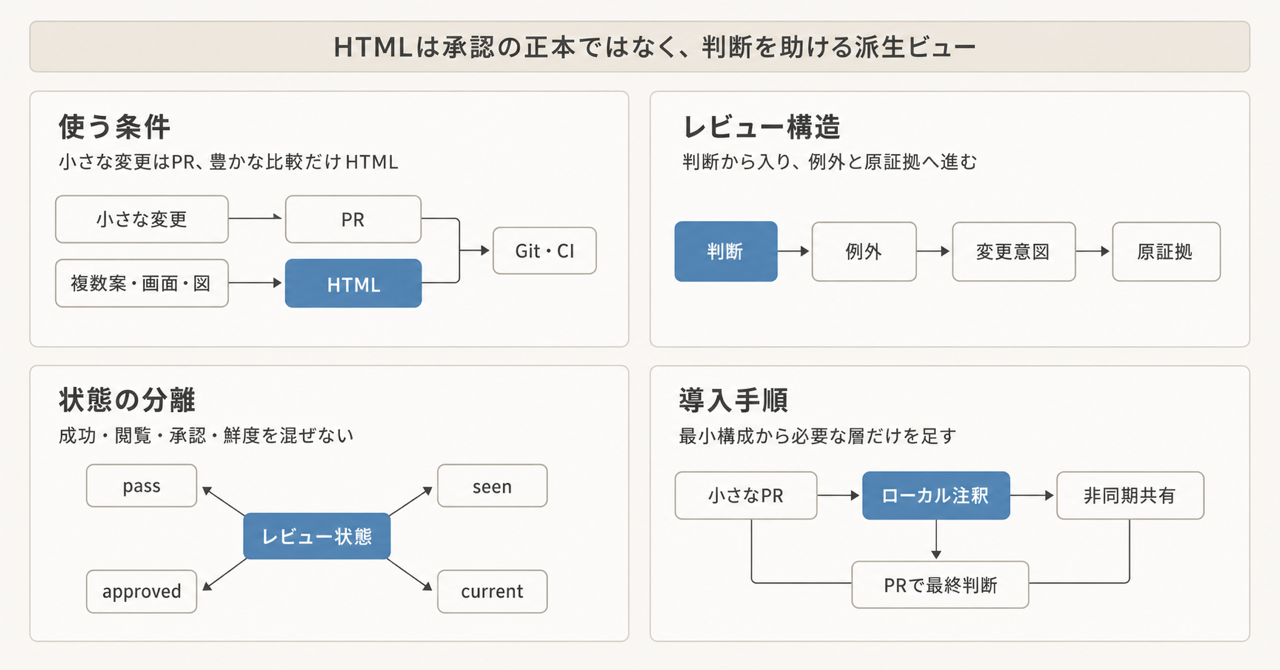
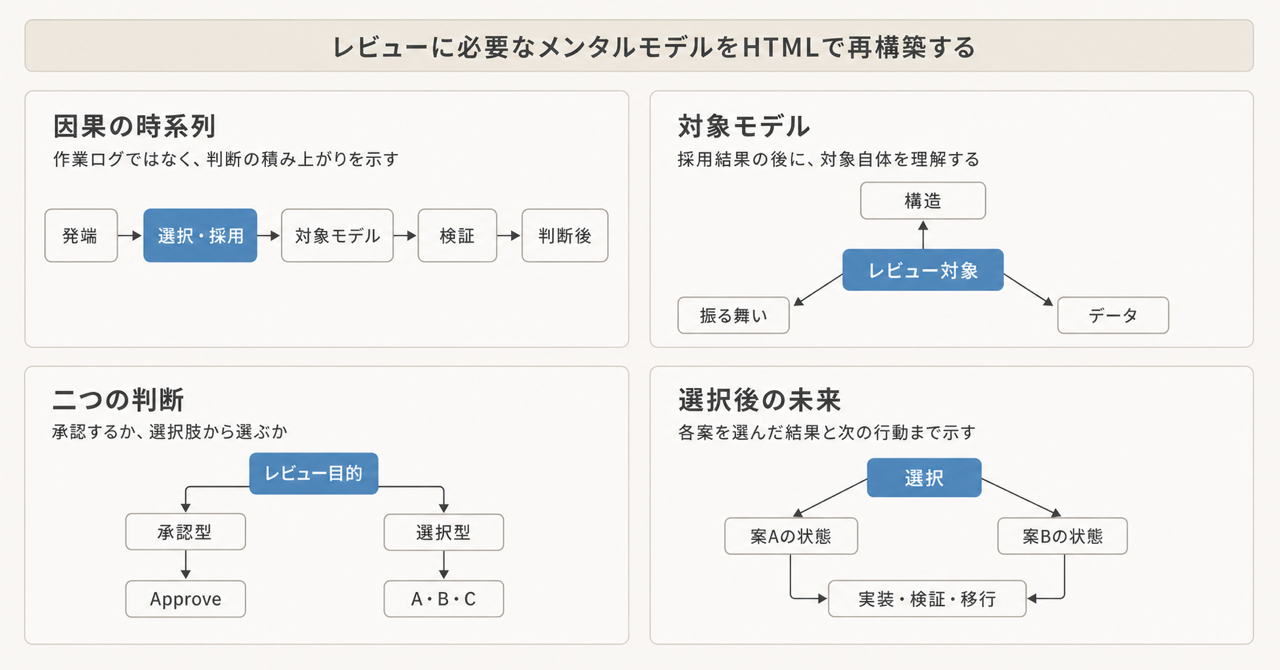
docs: expand human HTML review mental model

diff --git a/articles/coding-agent-human-html-review_20260807.md b/articles/coding-agent-human-html-review_20260807.md
@@ -6,14 +6,14 @@ topics: ["ClaudeCode", "CodeReview", "AIAgent", "OSS", "UX"]
 published: false
 ---
 
-コーディングエージェントに大きな調査や実装を任せると、成果物を作る時間より、人がその成果を理解して判断する時間の方が長くなることがあります。そこで使いたくなるのが、変更意図、diff、テスト結果、画面をまとめたHTMLです。
+コーディングエージェントに大きな調査や実装を任せると、成果物を作る時間より、人がその成果を理解して判断する時間の方が長くなることがあります。エージェントは背景を積み上げながら自律的に進みますが、reviewerはその過程を共有していません。そのため、前提知識がないまま、突然コードや最終結果の判断を求められます。
 
-ただし、MarkdownをきれいなHTMLへ変換するだけでは、レビューはそれほど楽になりません。減らしたいのは文字量ではなく、**探す、戻る、照合する、対象を言い直す、未確認箇所を覚える**といった作業だからです。
+そこで使いたくなるのが、変更意図、diff、テスト結果、画面をまとめたHTMLです。ただし、MarkdownをきれいなHTMLへ変換するだけでは、レビューはそれほど楽になりません。減らしたいのは文字量ではなく、**前提を組み立てる、対象の仕組みを把握する、探す、戻る、照合する、未確認箇所を覚える**といった作業だからです。
 
-この記事では、人の認知負荷を下げるHTMLレビューの設計原則と、2026年8月時点で利用できるツールを整理します。Claude Code Artifactsの不足を補うOSSも、どのペインをどう解消するのかという観点で比較します。
+この記事では、前提知識ゼロからレビューに必要なメンタルモデルを再構築するHTMLの設計原則と、2026年8月時点で利用できるツールを整理します。Claude Code Artifactsの不足を補うOSSも、どのペインをどう解消するのかという観点で比較します。
 
 :::message
-結論から言うと、既定値は小さなGitHub PR、CI、raw diffのままで十分です。HTMLは承認の正本ではなく、複数案、ユーザーフロー、図、画面状態など、行指向diffでは理解しにくい変更にだけ追加する派生ビューとして使います。
+結論から言うと、既定値は小さなGitHub PR、CI、raw diffのままで十分です。HTMLは承認の正本ではなく、前提知識ゼロから対象と判断材料を理解するための派生ビューです。複数案、ユーザーフロー、図、画面状態など、行指向diffでは理解しにくい変更にだけ追加します。
 :::
 
 ![記事の全体像](/images/coding-agent-human-html-review_20260807/overview.png)
@@ -21,47 +21,109 @@ published: false
 
 ## HTML化の前に、減らしたい負荷を分ける
 
-「レビューがつらい」を一つの問題として扱うと、ツール選びを誤ります。実際には、少なくとも次の5つに分けられます。
+「レビューがつらい」を一つの問題として扱うと、ツール選びを誤ります。実際には、少なくとも次の7つに分けられます。
 
 | 負荷 | レビュー中に起きること | UIへ移せるもの |
 |---|---|---|
+| 前提構築負荷 | 目的、制約、検討経緯を知らず、結果から背景を推測する | 発端から採用結果までの因果的な時系列 |
+| 対象理解負荷 | コードを読みながら構造、振る舞い、データ関係を頭内で組み立てる | 構造図、振る舞い図、データモデル図 |
 | 同定負荷 | 「左の3つ目」「この辺」と対象を言い直す | DOM、行、引用へのanchor |
 | 探索・再定位負荷 | 仕様、diff、テスト、画面を往復する | 索引、deep link、確認位置 |
 | 比較・統合負荷 | before/afterや複数ファイルを頭内で結ぶ | 同期比較、関心事ごとの束ね |
 | 状態保持負荷 | 見た箇所、未確認、差し戻し、古い判断を覚える | unseen、decision、staleの分離 |
 | 転記負荷 | コメントを再びプロンプトへまとめる | 構造化feedbackとagentへの返送 |
 
-HTMLの利点は、これらの状態を画面へ外在化できることです。一方で、変更が正しいか疑い、反証し、承認する思考まで省くべきではありません。
+HTMLの利点は、reviewerとエージェントの間にある文脈の非対称性を埋め、これらの状態を画面へ外在化できることです。一方で、変更が正しいか疑い、反証し、承認する思考まで省くべきではありません。
 
 「HTMLの方がMarkdownやPRより認知負荷が低い」と直接示したコードレビュー実験は、今回の調査では確認できませんでした。参考になるのは、変更理由と根拠を近づける、探索状態を外に出す、関心事ごとに分解するといった周辺研究です。つまり、効果を生むのはHTMLという媒体ではなく、**情報の配置とレビュー状態の設計**です。
 
-## レビュー画面は「判断→例外→証拠」の順にする
+## 時系列でメンタルモデルを再構築する
 
-エージェントの実行ログを先頭から並べても、レビュー画面にはなりません。人が最初に知りたいのは、何を作業したかより、何を判断すべきかです。
+前提知識のないreviewerには、結論だけでなく「なぜ現在の形になったのか」を組み立てる足場が必要です。そこで本文の主線は時系列にします。ただし、agent transcriptを最初から並べるのではありません。レビュー判断に影響する発端、制約、選択、結果だけを残した**因果の時系列**にします。
 
-第一層には次を置きます。
+最初に、このHTMLが何を求めるレビューなのかを宣言します。
 
-- 目的と成功条件
-- beforeからafterへ変わるユーザー挙動
-- 採った方法と、重要な棄却案
-- 影響範囲と調べた範囲
-- 検証済み、未実行、未検証、失敗
-- reviewerに判断してほしい具体的な問い
+- **承認型**: 完成した結果を採用してよいか
+- **選択型**: 複数案のどれを選ぶか
 
-変更理解の研究でも、why、完全性、正しさ、設計、波及リスクは主要な情報ニーズでした。また、実際のコードレビューではannotated diffだけでなく、変更外のコード、実行結果、仕様も参照されます。したがって、HTMLはdiffを隠す要約ではなく、判断に必要な文脈から原証拠へ案内する索引にします。
+その後は、次の順に情報を配置します。
 
 ```mermaid
 flowchart LR
-    A["目的・成功条件"] --> B["例外<br/>失敗・未検証・stale"]
-    B --> C["変更単位<br/>意図・before→after"]
-    C --> D["近接した証拠<br/>diff・test・log・画面"]
-    D --> E["raw evidence"]
+    A["発端・目的"] --> B["検討した案"]
+    B --> C["採用結果<br/>または選択肢"]
+    C --> D["レビュー対象<br/>構造・振る舞い・データ"]
+    D --> E["検証<br/>証拠・未確認・リスク"]
     E --> F["人の判断"]
-    F --> G["対象と版を持つfeedback"]
-    G --> H["agentの次版"]
+    F --> G["判断後に起きること"]
 ```
 
+この順番には理由があります。レビュー対象の構造を先に見せても、reviewerは何に注目すべきか分かりません。検討した案と採用結果を示した後なら、なぜその構造や振る舞いを確認する必要があるのか理解できます。そして対象の仕組みを把握した後に、テストやログが何を検証しているのかを判断できます。
+
+変更理解の研究でも、why、完全性、正しさ、設計、波及リスクは主要な情報ニーズでした。また、実際のコードレビューではannotated diffだけでなく、変更外のコード、実行結果、仕様も参照されます。したがって、HTMLはdiffを隠す要約ではなく、判断に必要なメンタルモデルを組み立て、そこから原証拠へ案内する索引にします。
+
+### 採用結果の後に、レビュー対象自体を説明する
+
+エージェントは変更理由を説明しても、レビュー対象そのものを共有済みとして省略しがちです。その状態では、reviewerがコードを読みながら対象の仕組みを逆算することになります。採用結果を示した直後に、今回の判断に関係する範囲を次の3図で説明します。
+
+| 図 | 示す内容 | reviewerが答えられる問い |
+|---|---|---|
+| 構造図 | 主要component、責務、依存関係、対象境界 | どこが変わり、どこまで影響するか |
+| 振る舞い図 | trigger、処理、出力、副作用、失敗経路 | 正常時と失敗時に何が起きるか |
+| データモデル図 | entity、関係、所有者、状態遷移、永続化先 | 何が保存・更新され、整合性をどう保つか |
+
+システム全体を網羅する必要はありません。今回の判断に必要なsliceへ絞り、図の境界と省略範囲を明示します。各nodeから対応するcode、schema、testへ移動できるようにし、図がagentの想像だけで作られた説明にならないようにします。
+
+before/afterは、別々の図を眺めさせるより、同じ対象モデルへ変更を重ねます。たとえば、componentの追加、呼び出し順の変化、entityの所有者変更を強調すれば、構造とdiffを頭内で再結合する負荷を減らせます。
+
+### 対象モデルの後に検証を置く
+
+検証結果は、対象の仕組みを理解した後に示します。「tests pass」だけでは、どの振る舞いやデータ制約を確認したのか判断できません。構造、振る舞い、データモデルの各要素へ、対応するtest、log、screenshot、raw diffを近接させます。
+
 特に、失敗、warning、not-run、unverifiedは折り畳みの外へ出します。成功した反復ログは閉じても構いませんが、例外の存在と件数まで隠すと、progressive disclosureではなく情報欠落になります。
+
+## 承認型と選択型で、判断の出口を分ける
+
+承認型では、採用済みの案とその検証結果を読み、`Approve`または`Request changes`を返します。一方、選択型では機能一覧を比較するだけでは判断できません。各案を選択した結果、どのような未来になるのかまで示す必要があります。
+
+| 選択肢ごとに示すもの | 確認する内容 |
+|---|---|
+| 得られる結果 | ユーザー体験やシステムがどう変わるか |
+| 構造への影響 | component、責務、依存関係がどうなるか |
+| 振る舞いへの影響 | 正常系、失敗系、運用がどう変わるか |
+| データへの影響 | schema、状態、移行、所有権がどうなるか |
+| コスト | 実装、運用、移行、学習に何が必要か |
+| リスクと未知 | 未検証事項と、失敗した場合の影響 |
+| 可逆性 | 後から変更・撤回できるか |
+| 次のアクション | 選択後にagentと人が何をするか |
+
+```mermaid
+flowchart TB
+    Q["選択してほしい問い"] --> A["案A"]
+    Q --> B["案B"]
+    Q --> C["案C"]
+    A --> AO["Aを選んだ後の状態"]
+    B --> BO["Bを選んだ後の状態"]
+    C --> CO["Cを選んだ後の状態"]
+    AO --> D["人の選択"]
+    BO --> D
+    CO --> D
+    D --> N["実装・検証・移行"]
+```
+
+推奨案を出す場合も、他案を不当に弱く見せません。評価軸と前提を明示し、「この制約ならA、可逆性を優先するならB」のように、前提が変わったとき推奨がどう変わるかを示します。選択後の処理も曖昧にせず、選択を受けてagentが実装するのか、追加検証するのか、移行を開始するのかまで書きます。
+
+:::details レビューHTMLの依頼テンプレート
+前提知識のないreviewerが、過去の会話や作業ログを読まなくても妥当性を判断できるレビューHTMLを作成してください。
+
+最初に、このレビューが「完成した結果の承認」を求めるものか、「複数の選択肢からの選択」を求めるものかを明示してください。発端、目的、成功条件、制約、検討した案、採用結果または現在の選択肢を、判断に影響する因果関係が分かる時系列で説明してください。agent transcriptの単純な要約にはしないでください。
+
+採用結果または選択肢を説明した後に、レビュー対象自体を説明してください。今回の判断に関係する範囲について、主要component・責務・依存関係を示す構造図、入力・処理・出力・副作用・失敗経路を示す振る舞い図、entity・関係・所有者・状態遷移・永続化先を示すデータモデル図を作成してください。図の境界、省略範囲、対応するcode・schema・testへの参照も示してください。
+
+対象の説明後に、検証済み事項、未実行・未確認事項、既知のリスクを示してください。agentの主張、codeから確認できる事実、testなどの証拠、人の判断は分離してください。
+
+選択を求める場合は特徴比較だけで終わらせず、各案を選んだ後のユーザー体験、構造、振る舞い、データ、運用、コスト、リスク、可逆性、次のアクションを説明してください。
+:::
 
 ## `pass`と`approved`を同じ緑色にしない
 
@@ -226,11 +288,13 @@ Plannotatorにはfeedback復旧、stale diff、screen reader menu、Lavishには
 4. 条件3にAI要約を初期表示
 5. 条件3にAI要約をon-demand表示
 
-正しいAI要約だけでなく、一部誤った要約も混ぜます。小変更と複数関心事の変更、全test成功だが要求違反の変更、複数revisionの再レビューも含めます。
+正しいAI要約だけでなく、一部誤った要約も混ぜます。小変更と複数関心事の変更、全test成功だが要求違反の変更、複数revisionの再レビューも含めます。さらに、完成結果を承認する課題と、複数案から選択する課題を分けます。選択課題では、特徴表だけを見せる条件と、各案を選択した後の状態まで見せる条件を比較します。
 
-測るのは、Approveまでの速さだけではありません。
+測るのは、Approveや選択までの速さだけではありません。
 
 - 目的、before/after、最大リスク、未検証点を説明できるか
+- 対象の構造、振る舞い、主要なデータ関係を説明できるか
+- 選んだ案によって何が起き、次に何をするか説明できるか
 - 誤ったAI要約を差し戻せるか
 - false negative、false positive、誤承認
 - 最初の有用な証拠へ到達する時間、再発見、画面間往復
@@ -243,11 +307,13 @@ Plannotatorにはfeedback復旧、stale diff、screen reader menu、Lavishには
 
 ## まとめ
 
-人向けHTMLレビューの価値は、成果物を華やかにすることではありません。レビュー中の探索、比較、状態保持、転記を画面とプロトコルへ移し、人の注意を判断へ戻すことです。
+人向けHTMLレビューの価値は、成果物を華やかにすることではありません。エージェントとreviewerの文脈の非対称性を埋め、レビューに必要なメンタルモデルを再構築することです。その上で、探索、比較、状態保持、転記を画面とプロトコルへ移し、人の注意を判断へ戻します。
 
 - 既定値は、小さなPR、CI、raw diffとする
 - HTMLはrichな表現が必要なときだけ、派生ビューとして追加する
-- 判断、例外、change unit、原証拠の順に配置する
+- 背景、選択・採用、対象モデル、検証、判断、判断後の未来を因果的な時系列で配置する
+- 採用結果の後に、対象の構造、振る舞い、データモデルを図解する
+- 承認型と選択型を分け、選択型では各案を選んだ後の状態まで示す
 - pass、seen、approved、resolved、currentを別の状態として持つ
 - AI要約を答えにせず、原証拠への索引にする
 - 個人PoCはPlannotatorとLavish、非同期PoCはGlance等を比較する
